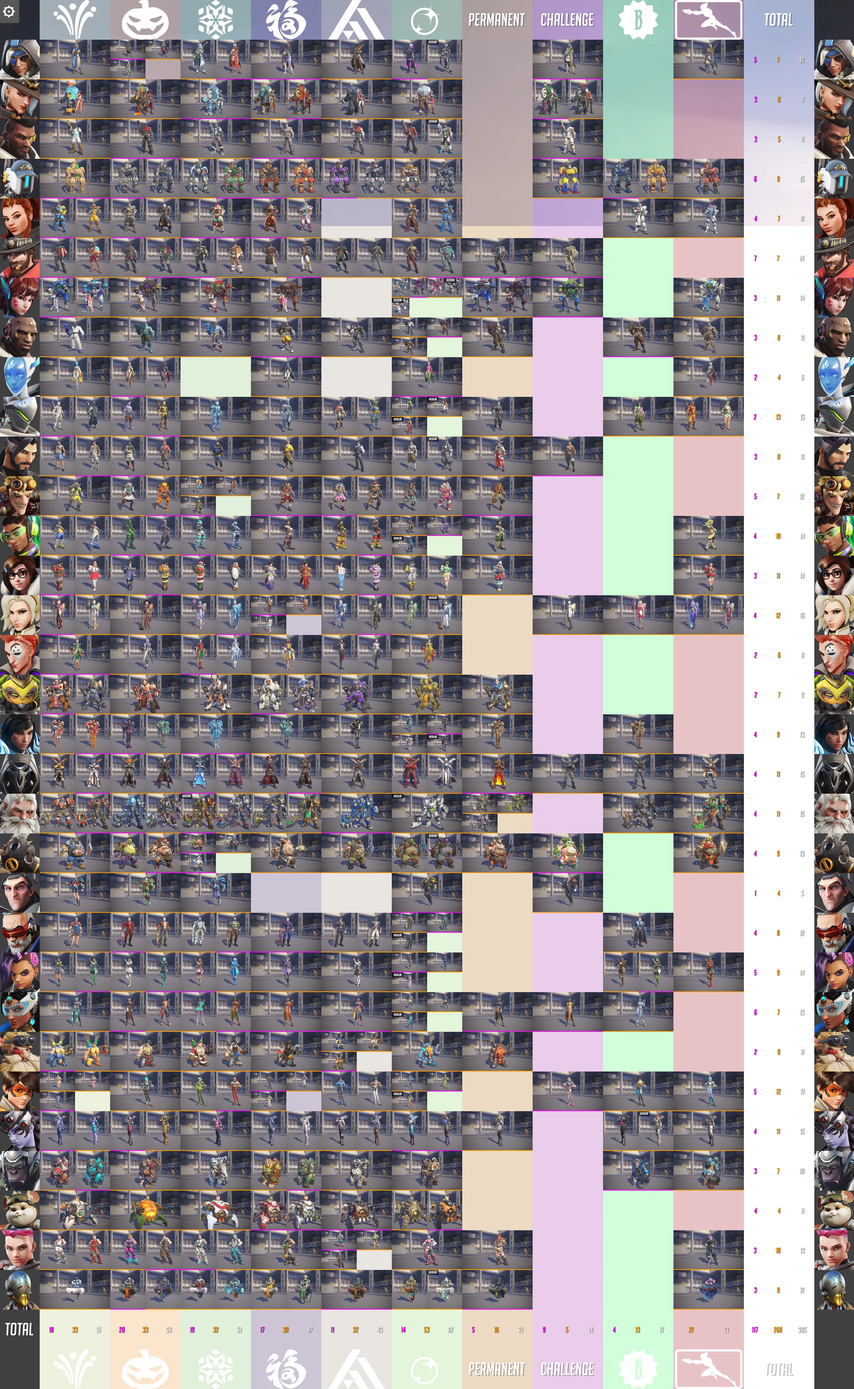
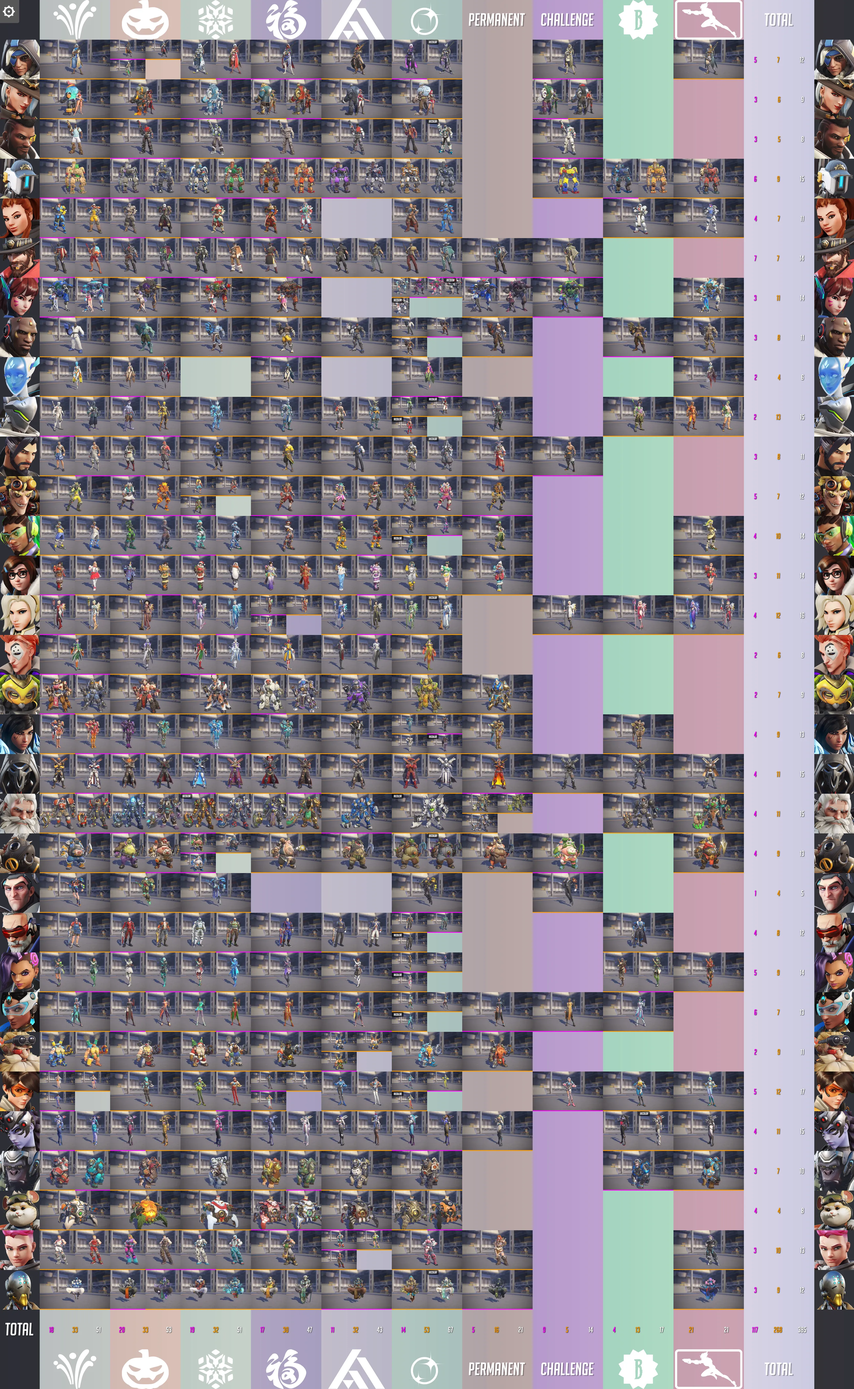
Rework background and missing images

diff --git a/css/root.css b/css/root.css
@@ -25,8 +25,9 @@
 
 body {
     font-family: BigNoodleTitlingOblique;
-    background: url('../image/background.webp') 0% 0% / cover fixed no-repeat;
     margin: 0;
+    background: #B3B7D4;
+    background: linear-gradient(90deg, rgba(179, 183, 212, 1) 0%, rgba(219, 213, 229, 1) 50%, rgba(171, 181, 215, 1) 100%);
 
     &>a {
         display: block;
